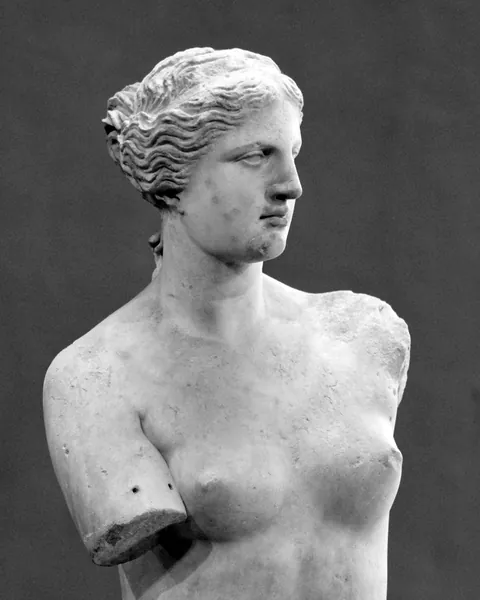
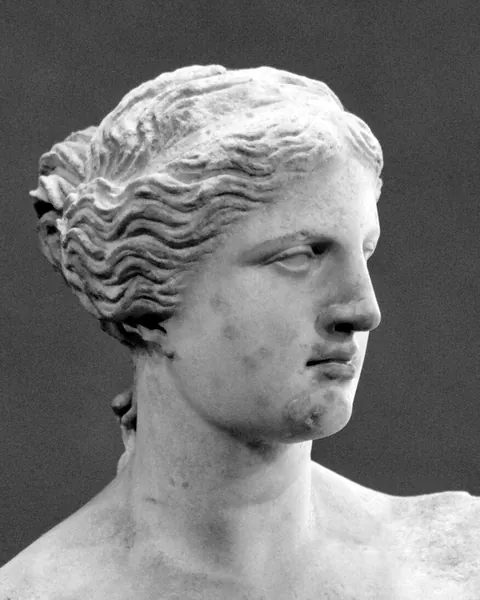
Result wheel as seven plain dots; more modest crops of five plates
- Wheel: one dot on every line, in the colour of the god it leans to, the
  strongest ringed; a line with no pull keeps a hollow dot beside the centre.
  No band circles, stems or filled cells.
- The list beside the wheel names all seven polarities, strongest first
- Plates: Venus de Milo cropped to head and shoulders; Ingres, Goltzius and
  the Rubens Mars cropped higher; the Carracci Pluto replaced by Pluto and
  Proserpina from Rubens's Orpheus and Eurydice
- Opening page in the painted edition: Juno in place of the Birth of Venus

diff --git a/js/components/wheel.js b/js/components/wheel.js
@@ -1,12 +1,12 @@
 // The wheel: every polarity is a diameter with its two gods at the ends.
 // A ring runs round the outside and carries the fourteen signs, one in each
-// cell, like the signs on an astrolabe. It follows config/model.json, so it
-// changes with the model.
+// cell. It follows config/model.json, so it changes with the model.
 //
-// Given a report (js/report.js) it also plots the seven points of a result:
-// one on each diameter, further from the centre the stronger the pull. The
-// faint circles mark where the bands of config/scoring.json begin. The cell of
-// the strongest god is filled and its point is ringed.
+// Given a report (js/report.js) it also plots a result as seven dots, one on
+// every diameter. A dot sits toward the god it leans to, further out the
+// stronger the pull, and the strongest is ringed. A polarity that pulls
+// neither way keeps a hollow dot beside the centre, so that all seven can
+// always be seen.
 
 import { s } from '../dom.js';
 import { signAt } from './emblem.js';
@@ -17,32 +17,26 @@ export function wheel(data, { label = '', report = null } = {}) {
   const cx = 340, cy = 330;
   const OUTER = 212, INNER = 168;     // the ring that carries the signs
   const MID = (OUTER + INNER) / 2;
-  const REACH = INNER - 18;           // how far a point can travel
+  const REST = 15;                    // hollow dots stand this far from the centre
+  const NEAR = 36, FAR = INNER - 24;  // where the weakest and the strongest pull put a dot
   const step = Math.PI / n;           // the angle between neighbouring gods
   const angle = (k) => -Math.PI / 2 + k * step;
   const at = (a, r) => [cx + r * Math.cos(a), cy + r * Math.sin(a)];
   const f = (v) => v.toFixed(2);
-
-  const svg = s('svg', { class: `wheel${report ? ' wheel--result' : ''}`, viewBox: '0 0 680 660', role: 'img', 'aria-label': label });
 
   const rows = report ? report.polarities : [];
   const max = scoring.displayMax || 1;
   const strongest = rows.reduce((best, row) => (row.god && (!best || row.strength > best.strength) ? row : best), null);
   const pulls = new Map(rows.filter((row) => row.god).map((row) => [row.god, row]));
 
-  const cells = s('g', { class: 'wheel__cells' });
+  const svg = s('svg', { class: `wheel${report ? ' wheel--result' : ''}`, viewBox: '0 0 680 660', role: 'img', 'aria-label': label });
   const ring = s('g', { class: 'wheel__ring' });
   const field = s('g', { class: 'wheel__field' });
-  const points = s('g', { class: 'wheel__points' });
+  const dots = s('g', { class: 'wheel__dots' });
   const signs = s('g', { class: 'wheel__signs' });
   const names = s('g', { class: 'wheel__names' });
 
   ring.append(s('circle', { cx, cy, r: OUTER }), s('circle', { cx, cy, r: INNER }));
-
-  // Where each band begins, as a faint circle.
-  for (const band of scoring.bands) {
-    if (band.from > 0 && band.from < max) field.append(s('circle', { class: 'wheel__band', cx, cy, r: (band.from / max) * REACH }));
-  }
 
   model.polarities.forEach((p, i) => {
     const j = i + n; // the opposite end of the same diameter
@@ -52,19 +46,11 @@ export function wheel(data, { label = '', report = null } = {}) {
     [[i, p.first], [j, p.second]].forEach(([k, god]) => {
       const a = angle(k);
       const row = pulls.get(god);
-      const marked = Boolean(row && row === strongest);
-      const state = !report ? '' : marked ? ' is-marked' : row ? ' is-pulling' : ' is-quiet';
+      const state = !report ? '' : row && row === strongest ? ' is-marked' : row ? ' is-pulling' : ' is-quiet';
 
-      // The cell: a slice of the ring, with a tick at its leading edge.
-      const a0 = a - step / 2, a1 = a + step / 2;
-      const [ox0, oy0] = at(a0, OUTER), [ox1, oy1] = at(a1, OUTER);
-      const [ix0, iy0] = at(a0, INNER), [ix1, iy1] = at(a1, INNER);
-      cells.append(s('path', {
-        class: `wheel__cell${state}`, 'data-god': god,
-        d: `M${f(ox0)} ${f(oy0)}A${OUTER} ${OUTER} 0 0 1 ${f(ox1)} ${f(oy1)}L${f(ix1)} ${f(iy1)}A${INNER} ${INNER} 0 0 0 ${f(ix0)} ${f(iy0)}z`,
-      }));
-      ring.append(s('line', { class: 'wheel__tick', x1: ix0, y1: iy0, x2: ox0, y2: oy0 }));
-
+      // A tick at the edge of each cell of the ring, and the god's sign inside it.
+      const [ix, iy] = at(a - step / 2, INNER), [ox, oy] = at(a - step / 2, OUTER);
+      ring.append(s('line', { class: 'wheel__tick', x1: ix, y1: iy, x2: ox, y2: oy }));
       const [sx, sy] = at(a, MID);
       signs.append(signAt(god, sx, sy, 27, { class: `wheel__sign${state}` }));
 
@@ -78,19 +64,30 @@ export function wheel(data, { label = '', report = null } = {}) {
         s('text', { class: `wheel__god${state}`, x, y, 'text-anchor': anchor, 'data-god': god }, content.gods[god].name),
         s('text', { class: `wheel__pole${state}`, x, y: y + 15, 'text-anchor': anchor }, content.gods[god].pole),
       );
-
-      if (row) {
-        const [px, py] = at(a, Math.min(row.strength / max, 1) * REACH);
-        const point = s('g', { class: `wheel__point${marked ? ' is-marked' : ''}`, 'data-god': god, style: { '--i': String(points.childNodes.length) } });
-        point.append(s('line', { class: 'wheel__pull', x1: cx, y1: cy, x2: px, y2: py }));
-        if (marked) point.append(s('circle', { class: 'wheel__halo', cx: px, cy: py, r: 13 }));
-        point.append(s('circle', { class: 'wheel__mark', cx: px, cy: py, r: marked ? 7 : 5 }));
-        // The strongest is drawn last so that nothing covers it.
-        if (marked) points.append(point); else points.prepend(point);
-      }
     });
   });
 
-  svg.append(cells, ring, field, s('circle', { class: 'wheel__hub', cx, cy, r: 2.5 }), points, signs, names);
+  // The seven dots of a result: one on every diameter.
+  rows.forEach((row, order) => {
+    const p = model.polarityById[row.id];
+    if (!row.god) {
+      // No pull either way: a hollow dot beside the centre, on this polarity's
+      // own line. Neighbouring lines take opposite sides so the dots never touch.
+      const [hx, hy] = at(angle(p.index % 2 ? p.index + n : p.index), REST);
+      dots.prepend(s('circle', { class: 'wheel__dot wheel__dot--rest', cx: hx, cy: hy, r: 5.5, style: { '--i': String(order) } }));
+      return;
+    }
+    const marked = row === strongest;
+    const a = angle(row.god === p.first ? p.index : p.index + n);
+    const [px, py] = at(a, NEAR + Math.min(row.strength / max, 1) * (FAR - NEAR));
+    const dot = s('g', { class: `wheel__dot${marked ? ' is-marked' : ''}`, 'data-god': row.god, style: { '--i': String(order) } });
+    if (marked) dot.append(s('circle', { class: 'wheel__halo', cx: px, cy: py, r: 17.5 }));
+    dot.append(s('circle', { class: 'wheel__mark', cx: px, cy: py, r: marked ? 10.5 : 9 }));
+    // The strongest is drawn last so that nothing covers it.
+    if (marked) dots.append(dot); else dots.prepend(dot);
+  });
+
+  if (!report) field.append(s('circle', { class: 'wheel__hub', cx, cy, r: 2.5 }));
+  svg.append(ring, field, dots, signs, names);
   return svg;
 }

diff --git a/css/app.css b/css/app.css
@@ -179,8 +179,6 @@ main > * { animation: arrive 0.7s cubic-bezier(0.2, 0.7, 0.2, 1) both; }
   opacity: 0.1;
   pointer-events: none;
 }
-/* A painting on an oval canvas keeps its shape. */
-.plate--oval .plate__frame { border-radius: 50%; }
 .plate__caption {
   display: flex;
   flex-direction: column;
@@ -276,29 +274,24 @@ main > * { animation: arrive 0.7s cubic-bezier(0.2, 0.7, 0.2, 1) both; }
 .wheel { display: block; width: 100%; max-width: 40rem; height: auto; margin-inline: auto; overflow: visible; }
 .wheel__ring circle { fill: none; stroke: var(--ink); stroke-width: 1; }
 .wheel__tick { stroke: var(--ink-soft); stroke-width: 0.75; opacity: 0.6; }
-.wheel__cell { fill: none; }
-.wheel__band { fill: none; stroke: var(--ink-soft); stroke-width: 0.75; stroke-dasharray: 0.5 5; stroke-linecap: round; opacity: 0.7; }
 .wheel__line { stroke: var(--rule); stroke-width: 1; }
 .wheel__hub { fill: var(--ink); }
 .wheel__sign { color: var(--ink); }
 .wheel__god { font: 400 20px var(--font-display); fill: var(--ink); }
 .wheel__pole { font: 500 9px var(--font-body); letter-spacing: 0.16em; text-transform: uppercase; fill: var(--ink-soft); }
 
-/* On a result: one point per line, in the colour of the god it leans to.
-   The strongest god's cell is filled and its point is ringed. */
-.wheel__cell.is-pulling { fill: color-mix(in srgb, var(--god) 13%, transparent); }
-.wheel__cell.is-marked { fill: var(--god); }
+/* On a result: seven dots, one on every line, each in the colour of the god
+   it leans to. The strongest is ringed. A hollow dot is a line with no pull. */
+.wheel--result .wheel__line { stroke: var(--ink-soft); opacity: 0.45; }
 .wheel__sign.is-quiet { color: var(--ink-soft); opacity: 0.5; }
-.wheel__sign.is-pulling { color: var(--god); }
-.wheel__sign.is-marked { color: var(--paper); }
+.wheel__sign.is-pulling, .wheel__sign.is-marked { color: var(--god); }
 .wheel__god.is-quiet, .wheel__pole.is-quiet { opacity: 0.5; }
 .wheel__god.is-pulling, .wheel__god.is-marked { fill: var(--god); }
 .wheel__god.is-marked { font-size: 24px; }
-.wheel__pull { stroke: var(--god); stroke-width: 1.5; stroke-linecap: round; }
-.wheel__mark { fill: var(--god); stroke: var(--paper); stroke-width: 1.5; }
-.wheel__halo { fill: none; stroke: var(--god); stroke-width: 1; }
-.wheel__point { animation: appear 0.9s ease-out both; animation-delay: calc(var(--i, 0) * 90ms + 250ms); }
-.wheel__point.is-marked .wheel__pull { stroke-width: 2.5; }
+.wheel__mark { fill: var(--god); stroke: var(--paper); stroke-width: 2; }
+.wheel__halo { fill: none; stroke: var(--god); stroke-width: 1.25; }
+.wheel__dot--rest { fill: var(--paper); stroke: var(--ink); stroke-width: 1.25; }
+.wheel__dot { animation: appear 0.8s ease-out both; animation-delay: calc(var(--i, 0) * 80ms + 200ms); }
 /* On a phone the wheel is half size: larger names, and the pole words step aside. */
 @media (max-width: 40rem) {
   .wheel__god { font-size: 27px; }
@@ -486,6 +479,10 @@ main > * { animation: arrive 0.7s cubic-bezier(0.2, 0.7, 0.2, 1) both; }
 .compass__order li.is-marked .compass__god { color: var(--god); }
 .compass__pole { font: 500 0.64rem / 1.5 var(--font-body); letter-spacing: 0.15em; text-transform: uppercase; color: var(--ink-soft); }
 .compass__order .chip { margin-left: auto; }
+/* A polarity with no pull: the same hollow dot it has on the wheel. */
+.compass__order li.is-resting { color: var(--ink-soft); }
+.compass__rest { flex: none; width: 30px; height: 30px; display: grid; place-items: center; }
+.compass__rest::before { content: ''; width: 9px; height: 9px; border: 1.25px solid var(--ink); border-radius: 50%; }
 .compass__strongest { max-width: 26rem; margin: 0; font-size: var(--text-small); color: var(--ink-soft); }
 
 /* A god's chapter: plate, Greek name and sign on the left leaf, reading on the right. */

diff --git a/js/views/result-sections.js b/js/views/result-sections.js
@@ -88,7 +88,7 @@ export const sections = {
             standing.map((god, i) => plate(god, data, { set: 'statues', eager: true, sizes: '(min-width: 56rem) 24rem, 92vw', extraClass: i ? 'verdict__second' : 'verdict__lead' })),
           )
         : h('div', { class: 'verdict__plates verdict__plates--slices' },
-            (data.plates.hero || []).map((god) => slice(god, data, { set: 'statues' })),
+            ((data.plates.hero || {}).marble || []).map((god) => slice(god, data, { set: 'statues' })),
           ),
     );
   },
@@ -97,20 +97,28 @@ export const sections = {
   wheel({ data, report }) {
     const ui = data.content.ui.result;
     const gods = data.content.gods;
-    const pulls = report.polarities.filter((row) => row.god).sort((a, b) => b.strength - a.strength);
+    // All seven, strongest first. A polarity with no pull either way is "at rest".
+    const rows = [...report.polarities].sort((a, b) => b.strength - a.strength);
+    const pulls = rows.filter((row) => row.god);
     const reading = pulls.length ? fill(ui.wheelStrongest, { god: gods[pulls[0].god].name }) : ui.wheelStill;
     return h('section', { class: 'compass' },
       h('div', { class: 'compass__text' },
         h('p', { class: 'kicker' }, ui.wheelKicker),
         h('h2', { class: 'section-title' }, ui.wheelTitle),
         h('p', { class: 'section-intro' }, ui.wheelIntro),
-        pulls.length > 0 && h('ol', { class: 'compass__order', 'aria-label': ui.wheelOrder },
-          pulls.map((row, i) => h('li', { class: i === 0 ? 'is-marked' : null, 'data-god': row.god },
-            emblem(row.god, { size: 30, solid: i === 0 }),
-            h('span', { class: 'compass__god' }, gods[row.god].name),
-            h('span', { class: 'compass__pole' }, gods[row.god].pole),
-            h('span', { class: `chip chip--${row.band}` }, ui.band[row.band]),
-          )),
+        h('ol', { class: 'compass__order', 'aria-label': ui.wheelOrder },
+          rows.map((row, i) => (row.god
+            ? h('li', { class: i === 0 ? 'is-marked' : null, 'data-god': row.god },
+                emblem(row.god, { size: 30, solid: i === 0 }),
+                h('span', { class: 'compass__god' }, gods[row.god].name),
+                h('span', { class: 'compass__pole' }, gods[row.god].pole),
+                h('span', { class: `chip chip--${row.band}` }, ui.band[row.band]),
+              )
+            : h('li', { class: 'is-resting' },
+                h('span', { class: 'compass__rest', 'aria-hidden': 'true' }),
+                h('span', { class: 'compass__god' }, fill(ui.wheelRest, { first: gods[row.first].name, second: gods[row.second].name })),
+                h('span', { class: `chip chip--${row.band}` }, ui.band[row.band]),
+              ))),
         ),
         h('p', { class: 'compass__strongest' }, reading),
       ),

diff --git a/js/validate.js b/js/validate.js
@@ -99,8 +99,8 @@ export function validateData(data, { knownSections } = {}) {
       if (!words || !words.title) say(`content plates.json: no title for ${set}.${god}.`);
     }
   }
-  for (const god of (plates && plates.hero) || []) {
-    if (!model.gods[god]) say(`config/plates.json: hero names unknown god "${god}".`);
+  for (const [edition, gods] of Object.entries((plates && plates.hero) || {})) {
+    for (const god of gods) if (!model.gods[god]) say(`config/plates.json: hero.${edition} names unknown god "${god}".`);
   }
   const editions = app.editions || [];
   if (!editions.includes(app.edition)) say('config/app.json: edition is not listed in editions.');

diff --git a/js/components/plate.js b/js/components/plate.js
@@ -34,8 +34,7 @@ export function plate(god, data, { set = 'statues', sizes = '(min-width: 56rem) 
     decoding: 'async',
   });
 
-  const shape = file.shape ? ` plate--${file.shape}` : '';
-  return h('figure', { class: `plate plate--${set}${shape}${extraClass ? ` ${extraClass}` : ''}`, 'data-god': god },
+  return h('figure', { class: `plate plate--${set}${extraClass ? ` ${extraClass}` : ''}`, 'data-god': god },
     h('div', { class: 'plate__frame', style: { 'aspect-ratio': `${width} / ${height}` } }, img),
     caption && words.title && h('figcaption', { class: 'plate__caption' },
       h('span', { class: 'plate__title' }, words.title),

diff --git a/js/views/intro.js b/js/views/intro.js
@@ -21,7 +21,7 @@ export function introView(ctx) {
 
   // Three tall slices stand beside the headline. In the painted edition the
   // outer two are paintings and the middle one stays marble.
-  const heroes = data.plates.hero || [];
+  const heroes = (data.plates.hero || {})[ctx.edition] || [];
   const sets = painted(ctx.edition) ? ['paintings', 'statues', 'paintings'] : ['statues', 'statues', 'statues'];
 
   return h('div', { class: 'home' },

diff --git a/README.md b/README.md
@@ -93,7 +93,7 @@ The look is a sculpture gallery: a page the colour of marble by day and of the u
 - **Plates.** Every god has a statue, shown in black and white and cropped to a head-and-shoulders plate, and a painting, shown in colour. Each has a title and a caption, and every source is listed on the credits page (`#credits`).
 - **Two editions.** `marble` shows statues only. `paint` adds the painting of each god beside the reading and on the gods page, and puts two paintings among the three plates on the opening page. A visitor switches between them in the footer; `?plates=marble` or `?plates=paint` in the address sets it for a link.
 - **Each god has a colour and a sign.** Any element with `data-god="<id>"` takes that god's colour through the `--god` token. It is used for thin rules, small labels and the points on the wheel, never for large areas. The sign is a fine line drawing in a ring: the thunderbolt for Zeus, the owl for Athena, the trident for Poseidon and so on.
-- **The wheel.** A ring runs round the outside and carries the fourteen signs. On the result page it also carries the seven points of the result: one on each line, further from the centre the stronger the pull, in the colour of the god it leans to. The strongest god's cell is filled and its point is ringed; the dotted circles mark where the bands of `config/scoring.json` begin.
+- **The wheel.** A ring runs round the outside and carries the fourteen signs. On the result page it also carries seven dots, one on every line: a dot sits toward the god it leans to, further from the centre the stronger the pull, in that god's colour. The strongest is ringed. A line with no pull either way keeps a hollow dot beside the centre, so all seven can always be seen.
 - **The result page** opens with the name of the result set very large beside the lead god's statue (both statues for a shared lead). Each god's chapter is ruled, titled and tagged in that god's colour, and each polarity bar fills in the colour of the god it leans to.
 - **Tag clouds** set a god's own images (tone `emblem`) in the display face and the god's colour.
 
@@ -101,7 +101,7 @@ A new god needs a line in `css/theme.css`, a drawing in `js/art/emblems.js`, and
 
 ### Where the pictures come from
 
-All of them are from Wikimedia Commons. The statues are public domain or CC0 photographs. The paintings are in the public domain; two of the photographs of them carry a Creative Commons licence (CC BY 3.0 and CC BY-SA 4.0) and are credited, with a link to the licence, on the credits page. `config/plates.json` holds the photographer, licence and source link for every file.
+All of them are from Wikimedia Commons. The statues are public domain or CC0 photographs. The paintings are in the public domain; one photograph of a painting carries a Creative Commons licence (CC BY 3.0) and is credited, with a link to the licence, on the credits page. Several plates are details of larger works, and their captions say so. `config/plates.json` holds the photographer, licence and source link for every file.
 
 ## How a result is worked out
 
